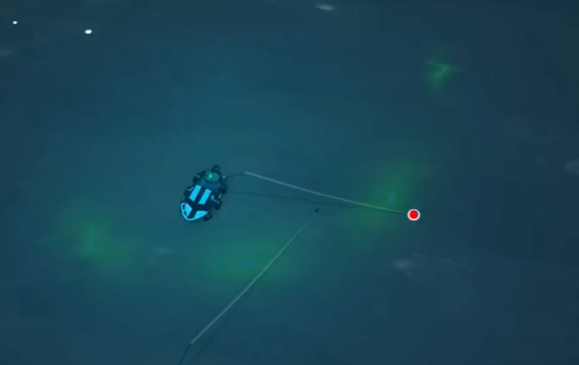
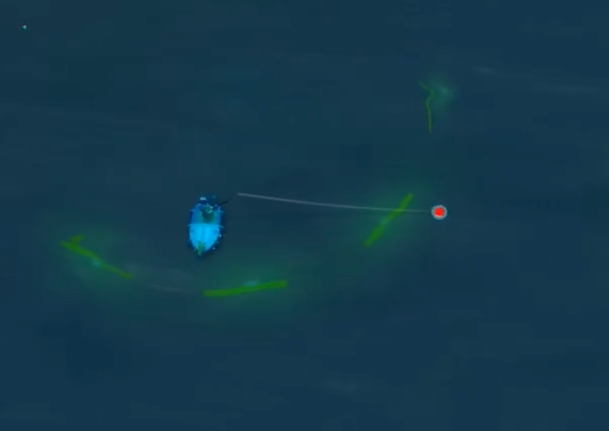
Modify For SpotPoint Image

diff --git a/script.js b/script.js
@@ -477,6 +477,15 @@ function syncMarkerBundleLayers(bundle, entity) {
     return hasVisibleMarker;
 }
 
+function removeOtherMapMarkersFromLayer(mapId) {
+    markerBundleCache.forEach((byMap, cachedMapId) => {
+        if (cachedMapId === mapId) return;
+        byMap.forEach((bundle) => {
+            bundle.markers.forEach((marker) => markerLayer.removeLayer(marker));
+        });
+    });
+}
+
 function scheduleRenderMarkers(refreshPanel = true) {
     if (refreshPanel) scheduledRefreshPanel = true;
     if (renderScheduled) return;
@@ -762,8 +771,8 @@ function buildDetailHtml(entity, spotIndex = null) {
     const noteHtml = entity.notes && entity.notes.trim() !== ""
         ? `<div class="detail-note"><strong>메모:</strong> ${entity.notes}</div>`
         : "";
-    const spotImages = getSpotImages(entity, spotIndex);
-    const spotHtml = spotImages.length > 0 ? buildSpotImagesHtml(spotImages) : "";
+    const spotImageBasePath = getSpotImageBasePath(entity, spotIndex);
+    const spotHtml = spotImageBasePath ? buildSpotImagesHtml(spotImageBasePath) : "";
 
     const caught = isCaught(entity);
     return `
@@ -805,44 +814,51 @@ function buildDetailHtml(entity, spotIndex = null) {
       </div>`;
 }
 
-function buildSpotImagesHtml(images) {
+function buildSpotImagesHtml(basePath) {
     return `
-        <div class="entity-spot" style="display:none;">
-            ${images.map((src) => `
-                <img
-                    src="${src}"
-                    onload="this.parentElement.style.display='flex';"
-                    onerror="this.remove();">
-            `).join("")}
-        </div>
+        <div class="entity-spot" data-base-path="${basePath}" data-max-variant="6" style="display:none;"></div>
     `;
 }
 
-function getSpotImages(entity, spotIndex = null) {
+function getSpotImageBasePath(entity, spotIndex = null) {
     if (entity.category === "monster") {
-        return spotIndex === null ? [] : getMonsterSpotImages(spotIndex);
+        return spotIndex === null ? null : getMonsterSpotImageBasePath(spotIndex);
     }
-    if (!["fish", "creature", "item"].includes(entity.category)) return [];
-    return getEntitySpotImages(entity);
+    if (!["fish", "creature", "item"].includes(entity.category)) return null;
+    return getEntitySpotImageBasePath(entity);
 }
 
-function getEntitySpotImages(entity) {
-    const basePath = `./assets/maps/${currentMapId}/portraits/${entity.category}/spot/${entity.id}P`;
-    return buildSpotImageCandidates(basePath);
+function getEntitySpotImageBasePath(entity) {
+    return `./assets/maps/${currentMapId}/portraits/${entity.category}/spot/${entity.id}P`;
 }
 
-function getMonsterSpotImages(index) {
+function getMonsterSpotImageBasePath(index) {
     const spotNumber = index + 1;
-    const basePath = `./assets/maps/${currentMapId}/portraits/monster/spot/spot${spotNumber}`;
-    return buildSpotImageCandidates(basePath);
+    return `./assets/maps/${currentMapId}/portraits/monster/spot/spot${spotNumber}`;
 }
 
-function buildSpotImageCandidates(basePath) {
-    const images = [`${basePath}.png`];
-    for (let variant = 1; variant <= 6; variant++) {
-        images.push(`${basePath}-${variant}.png`);
-    }
-    return images;
+function initializeSpotImages(root = document) {
+    root.querySelectorAll(".entity-spot[data-base-path]").forEach((container) => {
+        loadNextSpotImage(container, 0);
+    });
+}
+
+function loadNextSpotImage(container, variant) {
+    const basePath = container.dataset.basePath;
+    const maxVariant = Number(container.dataset.maxVariant || 0);
+    if (!basePath || variant > maxVariant) return;
+
+    const image = document.createElement("img");
+    image.onload = () => {
+        container.style.display = "flex";
+        loadNextSpotImage(container, variant + 1);
+    };
+    image.onerror = () => {
+        image.remove();
+        if (container.children.length === 0) container.style.display = "none";
+    };
+    image.src = variant === 0 ? `${basePath}.png` : `${basePath}-${variant}.png`;
+    container.appendChild(image);
 }
 
 async function loadMapEntities(mapId) {
@@ -1156,6 +1172,7 @@ function updateGroupHeaderState(category) {
 
 function openDetail(html) {
     detailBody.innerHTML = html;
+    initializeSpotImages(detailBody);
     detailSheet.classList.add("open");
     detailSheet.setAttribute("aria-hidden", "false");
 }
@@ -1227,7 +1244,7 @@ function renderMap() {
     requestAnimationFrame(() => {
         mapInstance.invalidateSize();
     });
-
+    removeOtherMapMarkersFromLayer(currentMapId);
     activeMarkerKeys.clear();
     scheduleRenderMarkers();
 }